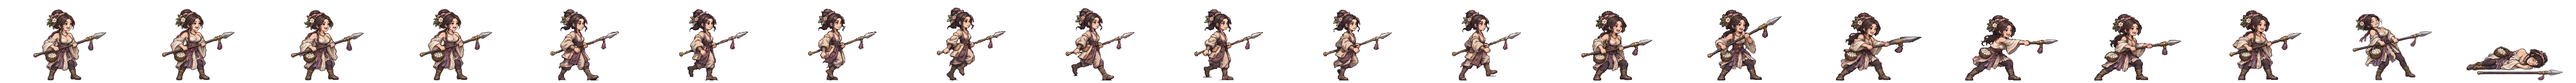
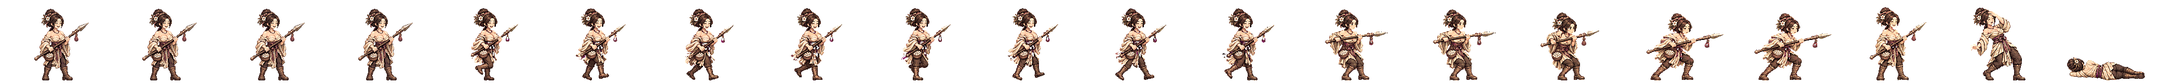
조문 오디 새 전투 띠를 게임에 넣음(서기·걷기·창 찌르기 여덟 칸·쓰러짐·꽃 고쳐 꽂기)
띠 검사 합격 · 찌르기는 가슴이 공 모양으로 부푼 첫 판을 한 번 다시 그림 · 쓰러짐은 7% 크게 그린 첫 판을 한 번 다시 그림 · 공격 끝 칸 키 141 ↔ 서기 138

Claude-Session: https://claude.ai/code/session_01TRiuN7s6aDfSnaHxrkctmU

Changed region(s): [[0.0, 0.0938, 1.0, 0.9688]]

diff --git a/src/realm/data/spritePx.ts b/src/realm/data/spritePx.ts
@@ -1,3 +1,3 @@
 /** public/realm/anim-px/manifest.json 의 사본 — tools/sprite-normalize.mjs 가 만든다 (손으로 고치지 말 것). 칸 [가로, 세로] · feet = 발 줄(칸 위에서 y) · bodyPx = 서 있는 몸 키 */
 import { expandManifest } from './sprite-manifest.ts'
-export const SPRITE_PX: Readonly<Record<string, { readonly cell: readonly [number, number]; readonly feet: number; readonly bodyPx: number; readonly kind: 'general' | 'soldier' | 'folk' | 'crowd'; readonly cells: number }>> = expandManifest<{ readonly cell: readonly [number, number]; readonly feet: number; readonly bodyPx: number; readonly kind: 'general' | 'soldier' | 'folk' | 'crowd'; readonly cells: number }>([{"cell":[166,128],"feet":126,"bodyPx":124,"kind":"soldier","cells":20},{"cell":[116,128],"feet":126,"bodyPx":117,"kind":"soldier","cells":20},{"cell":[127,128],"feet":126,"bodyPx":116,"kind":"soldier","cells":20},{"cell":[269,128],"feet":126,"bodyPx":126,"kind":"soldier","cells":20},{"cell":[503,128],"feet":126,"bodyPx":127,"kind":"soldier","cells":20},{"cell":[614,128],"feet":126,"bodyPx":126,"kind":"soldier","cells":20},{"cell":[200,160],"feet":156,"bodyPx":138,"kind":"general","cells":20},{"cell":[208,160],"feet":155,"bodyPx":138,"kind":"general","cells":20},{"cell":[208,160],"feet":154,"bodyPx":138,"kind":"general","cells":20},{"cell":[304,160],"feet":155,"bodyPx":135,"kind":"general","cells":20},{"cell":[224,160],"feet":156,"bodyPx":139,"kind":"general","cells":20},{"cell":[184,160],"feet":156,"bodyPx":138,"kind":"general","cells":20},{"cell":[208,160],"feet":154,"bodyPx":136,"kind":"general","cells":20},{"cell":[240,160],"feet":156,"bodyPx":138,"kind":"general","cells":20},{"cell":[232,160],"feet":156,"bodyPx":138,"kind":"general","cells":20},{"cell":[208,160],"feet":156,"bodyPx":138,"kind":"general","cells":20},{"cell":[168,160],"feet":156,"bodyPx":138,"kind":"general","cells":20},{"cell":[192,160],"feet":156,"bodyPx":138,"kind":"general","cells":20},{"cell":[168,160],"feet":156,"bodyPx":124,"kind":"general","cells":20},{"cell":[216,160],"feet":156,"bodyPx":130,"kind":"general","cells":20},{"cell":[200,160],"feet":156,"bodyPx":116,"kind":"general","cells":20},{"cell":[200,160],"feet":156,"bodyPx":135,"kind":"general","cells":20},{"cell":[280,160],"feet":156,"bodyPx":138,"kind":"general","cells":20},{"cell":[232,160],"feet":155,"bodyPx":138,"kind":"general","cells":20},{"cell":[232,160],"feet":156,"bodyPx":134,"kind":"general","cells":20},{"cell":[144,160],"feet":156,"bodyPx":70,"kind":"general","cells":20},{"cell":[208,160],"feet":156,"bodyPx":70,"kind":"general","cells":20},{"cell":[192,160],"feet":156,"bodyPx":70,"kind":"general","cells":20},{"cell":[240,160],"feet":155,"bodyPx":138,"kind":"general","cells":20},{"cell":[160,160],"feet":156,"bodyPx":135,"kind":"general","cells":20},{"cell":[192,160],"feet":156,"bodyPx":128,"kind":"general","cells":20},{"cell":[224,160],"feet":155,"bodyPx":138,"kind":"general","cells":20},{"cell":[232,160],"feet":156,"bodyPx":139,"kind":"general","cells":20},{"cell":[216,160],"feet":156,"bodyPx":138,"kind":"general","cells":20},{"cell":[208,160],"feet":156,"bodyPx":134,"kind":"general","cells":20},{"cell":[176,160],"feet":156,"bodyPx":130,"kind":"general","cells":20},{"cell":[248,160],"feet":156,"bodyPx":138,"kind":"general","cells":20},{"cell":[248,160],"feet":155,"bodyPx":138,"kind":"general","cells":20},{"cell":[192,160],"feet":155,"bodyPx":138,"kind":"general","cells":20},{"cell":[192,160],"feet":156,"bodyPx":124,"kind":"general","cells":20},{"cell":[208,160],"feet":154,"bodyPx":131,"kind":"general","cells":20},{"cell":[256,160],"feet":156,"bodyPx":138,"kind":"general","cells":20},{"cell":[232,160],"feet":156,"bodyPx":73,"kind":"general","cells":20},{"cell":[256,160],"feet":155,"bodyPx":138,"kind":"general","cells":20},{"cell":[264,160],"feet":156,"bodyPx":138,"kind":"general","cells":20},{"cell":[224,160],"feet":156,"bodyPx":138,"kind":"general","cells":20},{"cell":[224,160],"feet":156,"bodyPx":128,"kind":"general","cells":20},{"cell":[176,160],"feet":156,"bodyPx":129,"kind":"general","cells":20},{"cell":[208,160],"feet":154,"bodyPx":139,"kind":"general","cells":20},{"cell":[208,160],"feet":156,"bodyPx":132,"kind":"general","cells":20},{"cell":[216,160],"feet":155,"bodyPx":138,"kind":"general","cells":20},{"cell":[184,160],"feet":156,"bodyPx":122,"kind":"general","cells":20},{"cell":[176,160],"feet":156,"bodyPx":138,"kind":"general","cells":20},{"cell":[280,160],"feet":155,"bodyPx":133,"kind":"general","cells":20},{"cell":[176,160],"feet":156,"bodyPx":70,"kind":"general","cells":20},{"cell":[186,128],"feet":126,"bodyPx":127,"kind":"soldier","cells":20},{"cell":[298,128],"feet":126,"bodyPx":126,"kind":"soldier","cells":20},{"cell":[82,128],"feet":126,"bodyPx":114,"kind":"folk","cells":8},{"cell":[134,128],"feet":126,"bodyPx":119,"kind":"soldier","cells":20},{"cell":[380,128],"feet":126,"bodyPx":124,"kind":"soldier","cells":20},{"cell":[114,128],"feet":126,"bodyPx":115,"kind":"soldier","cells":20},{"cell":[122,128],"feet":126,"bodyPx":114,"kind":"soldier","cells":20},{"cell":[254,128],"feet":126,"bodyPx":128,"kind":"soldier","cells":20},{"cell":[438,128],"feet":126,"bodyPx":126,"kind":"soldier","cells":20},{"cell":[88,128],"feet":126,"bodyPx":113,"kind":"folk","cells":8},{"cell":[100,128],"feet":126,"bodyPx":115,"kind":"folk","cells":8},{"cell":[108,128],"feet":126,"bodyPx":115,"kind":"folk","cells":8},{"cell":[63,128],"feet":126,"bodyPx":113,"kind":"folk","cells":8},{"cell":[69,96],"feet":96,"bodyPx":96,"kind":"crowd","cells":1},{"cell":[54,96],"feet":96,"bodyPx":96,"kind":"crowd","cells":1},{"cell":[47,96],"feet":96,"bodyPx":96,"kind":"crowd","cells":1},{"cell":[49,96],"feet":96,"bodyPx":96,"kind":"crowd","cells":1},{"cell":[57,96],"feet":96,"bodyPx":96,"kind":"crowd","cells":1},{"cell":[55,96],"feet":96,"bodyPx":96,"kind":"crowd","cells":1},{"cell":[45,96],"feet":96,"bodyPx":96,"kind":"crowd","cells":1},{"cell":[53,96],"feet":96,"bodyPx":96,"kind":"crowd","cells":1},{"cell":[64,96],"feet":96,"bodyPx":96,"kind":"crowd","cells":1},{"cell":[184,160],"feet":156,"bodyPx":124,"kind":"general","cells":20},{"cell":[184,160],"feet":156,"bodyPx":134,"kind":"general","cells":20},{"cell":[224,160],"feet":156,"bodyPx":133,"kind":"general","cells":20},{"cell":[192,160],"feet":156,"bodyPx":135,"kind":"general","cells":20},{"cell":[184,160],"feet":156,"bodyPx":137,"kind":"general","cells":20},{"cell":[216,160],"feet":156,"bodyPx":134,"kind":"general","cells":20},{"cell":[216,160],"feet":156,"bodyPx":132,"kind":"general","cells":20},{"cell":[288,160],"feet":156,"bodyPx":138,"kind":"general","cells":20},{"cell":[192,160],"feet":156,"bodyPx":118,"kind":"general","cells":20},{"cell":[192,160],"feet":156,"bodyPx":134,"kind":"general","cells":20},{"cell":[192,160],"feet":157,"bodyPx":139,"kind":"general","cells":20},{"cell":[184,160],"feet":156,"bodyPx":128,"kind":"general","cells":20},{"cell":[240,160],"feet":156,"bodyPx":128,"kind":"general","cells":20},{"cell":[184,160],"feet":156,"bodyPx":132,"kind":"general","cells":20},{"cell":[208,160],"feet":156,"bodyPx":123,"kind":"general","cells":20},{"cell":[208,160],"feet":154,"bodyPx":137,"kind":"general","cells":20},{"cell":[176,160],"feet":156,"bodyPx":116,"kind":"general","cells":20},{"cell":[272,160],"feet":156,"bodyPx":138,"kind":"general","cells":20},{"cell":[176,160],"feet":156,"bodyPx":122,"kind":"general","cells":20},{"cell":[232,160],"feet":156,"bodyPx":127,"kind":"general","cells":20},{"cell":[176,160],"feet":156,"bodyPx":137,"kind":"general","cells":20},{"cell":[184,160],"feet":156,"bodyPx":133,"kind":"general","cells":20}],[["axe",0],["bandit-chief",1],["bandit-club",2],["boat",3],["bow",4],["crossbow",5],["gen-adogan",6],["gen-alpyeong",7],["gen-ara",8],["gen-areum",8],["gen-aryeong",9],["gen-bakdal",6],["gen-baram",10],["gen-bdanbi",11],["gen-beom",12],["gen-beombal",11],["gen-beomi",13],["gen-bira",14],["gen-biryu",15],["gen-budeul",16],["gen-byeol",17],["gen-daemusin",18],["gen-daeso",19],["gen-dallae2",11],["gen-dalli",11],["gen-damul",20],["gen-danbi",15],["gen-dangung",17],["gen-darae",21],["gen-dokmudeom",7],["gen-duman",22],["gen-eomni",23],["gen-eureum",24],["gen-g-bow",25],["gen-g-spear",26],["gen-g-sword",27],["gen-gaennae",6],["gen-gamsil",28],["gen-gaon",29],["gen-geota",15],["gen-geumbawi",11],["gen-geumha",30],["gen-goeun",15],["gen-gom",31],["gen-gomok",15],["gen-gureum",28],["gen-guryema",17],["gen-gwaeyu",14],["gen-haebi",8],["gen-haedal",6],["gen-haesol",32],["gen-halla",7],["gen-heo",8],["gen-hneoul",11],["gen-hogong",33],["gen-hojin",15],["gen-horselord",34],["gen-hwalmi",35],["gen-hyeokgeose",17],["gen-hyeopbo",6],["gen-irang",15],["gen-jibaekho",36],["gen-jinha",37],["gen-jita",38],["gen-jumong",39],["gen-keundol",7],["gen-maehwa",40],["gen-maenun",17],["gen-malgalgi",41],["gen-mari",13],["gen-maro",36],["gen-maryeo",15],["gen-mdallae",32],["gen-mir",6],["gen-mount",42],["gen-mulbeom",43],["gen-mulsae",33],["gen-musoe",33],["gen-noeul",8],["gen-nuri",44],["gen-ocheongan",45],["gen-odi",37],["gen-odogan",6],["gen-ogan",17],["gen-oi",46],["gen-olddaeso",24],["gen-onjo",47],["gen-pidogan",15],["gen-sagong",48],["gen-sdallae",6],["gen-sincheongan",33],["gen-singwigan",33],["gen-sinneoul",8],["gen-sobeol",23],["gen-soebi",6],["gen-soebo",49],["gen-soenun",36],["gen-sogeumbi",50],["gen-songbi",45],["gen-songyang",51],["gen-sori",52],["gen-soseono",53],["gen-suro",17],["gen-tahae",6],["gen-tneoul",8],["gen-w-bow",25],["gen-w-spear",54],["gen-waechief",15],["gen-wan",33],["gen-yeodogan",15],["gen-yucheongan",15],["gen-yusugan",36],["horse",55],["marine",56],["migrant",57],["militia",58],["pike",59],["pirate-captain",60],["pirate-sword",61],["shield",62],["spear",63],["villager-builder",64],["villager-farmer",65],["villager-porter",66],["villager-woman",67],["crowd-b1",68],["crowd-b2",69],["crowd-b3",70],["crowd-b4",71],["crowd-b5",72],["crowd-b6",73],["crowd-f1",68],["crowd-f2",73],["crowd-f3",74],["crowd-f4",75],["crowd-f5",68],["crowd-f6",76],["gen-dalbit",15],["gen-base-g-07-drunk-warrior",17],["gen-base-g-40-anya-adan",15],["gen-base-w-13-young-archer",8],["gen-base-g-03-sea-trader",13],["gen-base-w-10-pirate-captain",48],["gen-base-w-64-miri-dallae",48],["gen-base-g-41-goja-bau",13],["gen-base-g-42-dokro-garam",44],["gen-base-g-09-farmer-conscript",33],["gen-base-w-02-goguryeo-lady",33],["gen-base-w-17-mahan-pearl-diver",8],["gen-base-g-17-saro-isageum",49],["gen-base-g-18-daegaya-king",77],["gen-base-g-35-dabeol-dalgu",15],["gen-base-g-19-sabeol-veteran",33],["gen-base-w-23-usisan-whale-queen",8],["gen-base-g-36-gammun-gamdol",45],["gen-base-g-20-samul-sea-lord",41],["gen-base-g-37-eumjeup-jeup",11],["gen-base-g-38-chopal-palmae",17],["gen-base-w-75-daegaya-soemoe",17],["gen-base-g-45-dabeol-deulgae",11],["gen-base-g-04-jinhan-giant",15],["gen-base-g-08-veteran",15],["gen-base-w-18-jinhan-salt-widow",15],["gen-base-w-12-court-dancer",78],["gen-base-w-83-gyeonji-beodeul",79],["gen-base-w-05-baekje-queen",80],["gen-base-w-21-baekje-court-dancer",11],["gen-base-g-01-master-smith",81],["gen-base-g-93-jomun-solgae",35],["gen-base-g-57-bihwa-neup",13],["gen-base-w-72-eumjeup-beol",8],["gen-base-w-102-garak-dana",33],["gen-base-g-68-baekje-onnuri",15],["gen-base-w-27-mokji-jinha",6],["gen-base-g-22-ungcheon-gomnae",6],["gen-base-g-23-sangdang-soedal",15],["gen-base-g-24-wansan-onsan",6],["gen-base-g-25-balla-keunmoe",33],["gen-base-g-61-heomcheuk-bawi",33],["gen-base-g-88-wander-soeul",45],["gen-base-w-14-feast-spy",6],["gen-base-g-12-silla-youth",82],["gen-base-w-08-mahan-warrior",8],["gen-base-g-62-beonye-hanul",13],["gen-base-g-63-heomcheuk-beogeum",15],["gen-base-g-84-wander-seoneul",15],["gen-base-w-50-siljik-mulga",33],["gen-base-g-46-uga-nureongso",33],["gen-base-w-80-usan-gangchi",13],["gen-base-g-47-guga-sanyanggae",33],["gen-base-w-76-gampyeong-baetsagong",36],["gen-base-g-05-mahan-chieftain",83],["gen-base-g-58-usan-uhae",15],["gen-base-g-27-maek-maekdol",15],["gen-base-w-53-hwanna-gabi",16],["gen-base-w-29-golpo-janmul",36],["gen-base-g-53-baekje-haeru",6],["gen-base-w-71-yeonna-neoul",13],["gen-base-w-79-yangmaek-solmae",33],["gen-base-w-34-chopal-deulme",44],["gen-base-g-44-maga-malgup",84],["gen-base-w-31-dabeol-dalbit",48],["gen-base-g-51-biryuna-mulgyeol",45],["gen-base-g-48-gwanna-musoe",15],["gen-base-g-32-uga-sodu",14],["gen-base-g-49-goguryeo-sona",85],["gen-base-g-30-gwanna-soemoe",45],["gen-base-g-52-tamna-oreum",11],["gen-base-g-29-yeonna-myeongsol",39],["gen-base-w-56-dongokjeo-sogeum",86],["gen-base-g-54-mokji-mahan",14],["gen-base-g-33-jeoga-metdol",17],["gen-base-w-36-baekje-maena",17],["gen-base-w-38-sangdang-bulmae",6],["gen-base-w-39-gosaburi-galmae",87],["gen-base-w-40-mujin-munui",49],["gen-base-w-41-hwanna-beodeul",88],["gen-base-w-43-uga-nuri",41],["gen-base-w-45-tamna-oreumbi",11],["gen-base-g-60-golbeol-golgae",11],["gen-base-g-61-apdok-ap",33],["gen-base-g-62-gammun-gamnamu",6],["gen-base-g-63-chopal-yeoul",36],["gen-base-g-64-michuhol-sogeumkkun",13],["gen-base-g-65-sangdang-soemangchi",45],["gen-base-g-66-geonma-malbalgup",89],["gen-base-g-67-gosaburi-buri",90],["gen-base-g-68-mujin-bitgoeul",11],["gen-base-g-69-goryong-yong",45],["gen-base-g-70-siljik-pado",13],["gen-base-w-81-byeokjin-byeolbit",14],["gen-base-w-46-geonma-maru",36],["gen-base-w-48-mujin-mudeung",13],["gen-base-g-26-gampyeong-gaetbeol",14],["gen-base-g-60-eupcha-hangyeol",91],["gen-base-g-15-shaman-man",33],["gen-base-g-85-wander-ure",36],["gen-base-g-43-hwanna-amnok",15],["gen-base-g-50-bullae-gwaha",80],["gen-base-g-55-saro-bakdal",15],["gen-base-g-56-haseulla-gwahama",6],["gen-base-w-06-buyeo-huntress",92],["gen-base-w-22-dongye-tiger-huntress",8],["gen-base-w-25-bihwa-priestess",33],["gen-base-w-24-apdok-queen",11],["gen-base-w-61-iseo-sinae",15],["gen-base-w-26-iseo-tomboy-general",8],["gen-base-g-59-yangmaek-maekson",93],["gen-aw1-haebi",45],["gen-aw1-soseono",94],["gen-aw1-gamsil",11],["gen-aw1-mir",52],["gen-aw1-dangung",6],["gen-aw1-ara",45],["gen-aw1-jumong",95],["gen-aw1-onjo",96],["gen-aw1-base-w-83-gyeonji-beodeul",17],["gen-aw1-heo",44],["gen-aw1-base-g-38-chopal-palmae",6],["gen-aw1-base-w-25-bihwa-priestess",78],["gen-aw1-sori",16],["gen-aw1-gomok",6],["gen-aw1-irang",17],["gen-aw1-budeul",16],["gen-aw1-gom",13],["gen-aw1-sdallae",6],["gen-aw1-base-w-13-young-archer",6],["gen-aw1-base-w-36-baekje-maena",97],["gen-aw1-base-g-09-farmer-conscript",44],["gen-aw1-base-w-02-goguryeo-lady",98],["gen-aw1-haedal",11],["gen-aw1-hogong",6],["gen-aw1-maehwa",52],["gen-aw1-base-w-06-buyeo-huntress",14],["gen-aw1-base-w-08-mahan-warrior",45],["gen-aw1-base-w-29-golpo-janmul",45],["gen-aw1-base-w-31-dabeol-dalbit",17],["gen-aw1-base-w-38-sangdang-bulmae",16],["gen-aw1-bira",33],["gen-aw1-base-w-53-hwanna-gabi",16],["gen-aw1-base-w-56-dongokjeo-sogeum",52],["gen-aw1-base-w-72-eumjeup-beol",17],["gen-aw1-bdanbi",16],["gen-aw1-beom",11],["gen-aw1-beombal",11],["gen-aw1-byeol",17],["gen-aw1-dalli",52],["gen-aw1-malgalgi",36],["gen-aw1-sincheongan",33]])
+export const SPRITE_PX: Readonly<Record<string, { readonly cell: readonly [number, number]; readonly feet: number; readonly bodyPx: number; readonly kind: 'general' | 'soldier' | 'folk' | 'crowd'; readonly cells: number }>> = expandManifest<{ readonly cell: readonly [number, number]; readonly feet: number; readonly bodyPx: number; readonly kind: 'general' | 'soldier' | 'folk' | 'crowd'; readonly cells: number }>([{"cell":[166,128],"feet":126,"bodyPx":124,"kind":"soldier","cells":20},{"cell":[116,128],"feet":126,"bodyPx":117,"kind":"soldier","cells":20},{"cell":[127,128],"feet":126,"bodyPx":116,"kind":"soldier","cells":20},{"cell":[269,128],"feet":126,"bodyPx":126,"kind":"soldier","cells":20},{"cell":[503,128],"feet":126,"bodyPx":127,"kind":"soldier","cells":20},{"cell":[614,128],"feet":126,"bodyPx":126,"kind":"soldier","cells":20},{"cell":[200,160],"feet":156,"bodyPx":138,"kind":"general","cells":20},{"cell":[208,160],"feet":155,"bodyPx":138,"kind":"general","cells":20},{"cell":[208,160],"feet":154,"bodyPx":138,"kind":"general","cells":20},{"cell":[304,160],"feet":155,"bodyPx":135,"kind":"general","cells":20},{"cell":[224,160],"feet":156,"bodyPx":139,"kind":"general","cells":20},{"cell":[184,160],"feet":156,"bodyPx":138,"kind":"general","cells":20},{"cell":[208,160],"feet":154,"bodyPx":136,"kind":"general","cells":20},{"cell":[240,160],"feet":156,"bodyPx":138,"kind":"general","cells":20},{"cell":[232,160],"feet":156,"bodyPx":138,"kind":"general","cells":20},{"cell":[208,160],"feet":156,"bodyPx":138,"kind":"general","cells":20},{"cell":[168,160],"feet":156,"bodyPx":138,"kind":"general","cells":20},{"cell":[192,160],"feet":156,"bodyPx":138,"kind":"general","cells":20},{"cell":[168,160],"feet":156,"bodyPx":124,"kind":"general","cells":20},{"cell":[216,160],"feet":156,"bodyPx":130,"kind":"general","cells":20},{"cell":[200,160],"feet":156,"bodyPx":116,"kind":"general","cells":20},{"cell":[200,160],"feet":156,"bodyPx":135,"kind":"general","cells":20},{"cell":[280,160],"feet":156,"bodyPx":138,"kind":"general","cells":20},{"cell":[232,160],"feet":155,"bodyPx":138,"kind":"general","cells":20},{"cell":[232,160],"feet":156,"bodyPx":134,"kind":"general","cells":20},{"cell":[144,160],"feet":156,"bodyPx":70,"kind":"general","cells":20},{"cell":[208,160],"feet":156,"bodyPx":70,"kind":"general","cells":20},{"cell":[192,160],"feet":156,"bodyPx":70,"kind":"general","cells":20},{"cell":[240,160],"feet":155,"bodyPx":138,"kind":"general","cells":20},{"cell":[160,160],"feet":156,"bodyPx":135,"kind":"general","cells":20},{"cell":[192,160],"feet":156,"bodyPx":128,"kind":"general","cells":20},{"cell":[224,160],"feet":155,"bodyPx":138,"kind":"general","cells":20},{"cell":[232,160],"feet":156,"bodyPx":139,"kind":"general","cells":20},{"cell":[216,160],"feet":156,"bodyPx":138,"kind":"general","cells":20},{"cell":[208,160],"feet":156,"bodyPx":134,"kind":"general","cells":20},{"cell":[176,160],"feet":156,"bodyPx":130,"kind":"general","cells":20},{"cell":[248,160],"feet":156,"bodyPx":138,"kind":"general","cells":20},{"cell":[248,160],"feet":155,"bodyPx":138,"kind":"general","cells":20},{"cell":[192,160],"feet":155,"bodyPx":138,"kind":"general","cells":20},{"cell":[192,160],"feet":156,"bodyPx":124,"kind":"general","cells":20},{"cell":[208,160],"feet":154,"bodyPx":131,"kind":"general","cells":20},{"cell":[256,160],"feet":156,"bodyPx":138,"kind":"general","cells":20},{"cell":[232,160],"feet":156,"bodyPx":73,"kind":"general","cells":20},{"cell":[256,160],"feet":155,"bodyPx":138,"kind":"general","cells":20},{"cell":[264,160],"feet":156,"bodyPx":138,"kind":"general","cells":20},{"cell":[224,160],"feet":156,"bodyPx":138,"kind":"general","cells":20},{"cell":[224,160],"feet":156,"bodyPx":128,"kind":"general","cells":20},{"cell":[176,160],"feet":156,"bodyPx":129,"kind":"general","cells":20},{"cell":[208,160],"feet":154,"bodyPx":139,"kind":"general","cells":20},{"cell":[208,160],"feet":156,"bodyPx":132,"kind":"general","cells":20},{"cell":[216,160],"feet":155,"bodyPx":138,"kind":"general","cells":20},{"cell":[184,160],"feet":156,"bodyPx":122,"kind":"general","cells":20},{"cell":[176,160],"feet":156,"bodyPx":138,"kind":"general","cells":20},{"cell":[280,160],"feet":155,"bodyPx":133,"kind":"general","cells":20},{"cell":[176,160],"feet":156,"bodyPx":70,"kind":"general","cells":20},{"cell":[186,128],"feet":126,"bodyPx":127,"kind":"soldier","cells":20},{"cell":[298,128],"feet":126,"bodyPx":126,"kind":"soldier","cells":20},{"cell":[82,128],"feet":126,"bodyPx":114,"kind":"folk","cells":8},{"cell":[134,128],"feet":126,"bodyPx":119,"kind":"soldier","cells":20},{"cell":[380,128],"feet":126,"bodyPx":124,"kind":"soldier","cells":20},{"cell":[114,128],"feet":126,"bodyPx":115,"kind":"soldier","cells":20},{"cell":[122,128],"feet":126,"bodyPx":114,"kind":"soldier","cells":20},{"cell":[254,128],"feet":126,"bodyPx":128,"kind":"soldier","cells":20},{"cell":[438,128],"feet":126,"bodyPx":126,"kind":"soldier","cells":20},{"cell":[88,128],"feet":126,"bodyPx":113,"kind":"folk","cells":8},{"cell":[100,128],"feet":126,"bodyPx":115,"kind":"folk","cells":8},{"cell":[108,128],"feet":126,"bodyPx":115,"kind":"folk","cells":8},{"cell":[63,128],"feet":126,"bodyPx":113,"kind":"folk","cells":8},{"cell":[69,96],"feet":96,"bodyPx":96,"kind":"crowd","cells":1},{"cell":[54,96],"feet":96,"bodyPx":96,"kind":"crowd","cells":1},{"cell":[47,96],"feet":96,"bodyPx":96,"kind":"crowd","cells":1},{"cell":[49,96],"feet":96,"bodyPx":96,"kind":"crowd","cells":1},{"cell":[57,96],"feet":96,"bodyPx":96,"kind":"crowd","cells":1},{"cell":[55,96],"feet":96,"bodyPx":96,"kind":"crowd","cells":1},{"cell":[45,96],"feet":96,"bodyPx":96,"kind":"crowd","cells":1},{"cell":[53,96],"feet":96,"bodyPx":96,"kind":"crowd","cells":1},{"cell":[64,96],"feet":96,"bodyPx":96,"kind":"crowd","cells":1},{"cell":[184,160],"feet":156,"bodyPx":124,"kind":"general","cells":20},{"cell":[184,160],"feet":156,"bodyPx":134,"kind":"general","cells":20},{"cell":[224,160],"feet":156,"bodyPx":133,"kind":"general","cells":20},{"cell":[192,160],"feet":156,"bodyPx":135,"kind":"general","cells":20},{"cell":[184,160],"feet":156,"bodyPx":137,"kind":"general","cells":20},{"cell":[216,160],"feet":156,"bodyPx":134,"kind":"general","cells":20},{"cell":[216,160],"feet":156,"bodyPx":132,"kind":"general","cells":20},{"cell":[288,160],"feet":156,"bodyPx":138,"kind":"general","cells":20},{"cell":[192,160],"feet":156,"bodyPx":118,"kind":"general","cells":20},{"cell":[192,160],"feet":156,"bodyPx":134,"kind":"general","cells":20},{"cell":[192,160],"feet":157,"bodyPx":139,"kind":"general","cells":20},{"cell":[184,160],"feet":156,"bodyPx":128,"kind":"general","cells":20},{"cell":[240,160],"feet":156,"bodyPx":128,"kind":"general","cells":20},{"cell":[184,160],"feet":156,"bodyPx":132,"kind":"general","cells":20},{"cell":[208,160],"feet":156,"bodyPx":123,"kind":"general","cells":20},{"cell":[208,160],"feet":154,"bodyPx":137,"kind":"general","cells":20},{"cell":[176,160],"feet":156,"bodyPx":116,"kind":"general","cells":20},{"cell":[272,160],"feet":156,"bodyPx":138,"kind":"general","cells":20},{"cell":[176,160],"feet":156,"bodyPx":122,"kind":"general","cells":20},{"cell":[232,160],"feet":156,"bodyPx":127,"kind":"general","cells":20},{"cell":[176,160],"feet":156,"bodyPx":137,"kind":"general","cells":20},{"cell":[184,160],"feet":156,"bodyPx":133,"kind":"general","cells":20}],[["axe",0],["bandit-chief",1],["bandit-club",2],["boat",3],["bow",4],["crossbow",5],["gen-adogan",6],["gen-alpyeong",7],["gen-ara",8],["gen-areum",8],["gen-aryeong",9],["gen-bakdal",6],["gen-baram",10],["gen-bdanbi",11],["gen-beom",12],["gen-beombal",11],["gen-beomi",13],["gen-bira",14],["gen-biryu",15],["gen-budeul",16],["gen-byeol",17],["gen-daemusin",18],["gen-daeso",19],["gen-dallae2",11],["gen-dalli",11],["gen-damul",20],["gen-danbi",15],["gen-dangung",17],["gen-darae",21],["gen-dokmudeom",7],["gen-duman",22],["gen-eomni",23],["gen-eureum",24],["gen-g-bow",25],["gen-g-spear",26],["gen-g-sword",27],["gen-gaennae",6],["gen-gamsil",28],["gen-gaon",29],["gen-geota",15],["gen-geumbawi",11],["gen-geumha",30],["gen-goeun",15],["gen-gom",31],["gen-gomok",15],["gen-gureum",28],["gen-guryema",17],["gen-gwaeyu",14],["gen-haebi",8],["gen-haedal",6],["gen-haesol",32],["gen-halla",7],["gen-heo",8],["gen-hneoul",11],["gen-hogong",33],["gen-hojin",15],["gen-horselord",34],["gen-hwalmi",35],["gen-hyeokgeose",17],["gen-hyeopbo",6],["gen-irang",15],["gen-jibaekho",36],["gen-jinha",37],["gen-jita",38],["gen-jumong",39],["gen-keundol",7],["gen-maehwa",40],["gen-maenun",17],["gen-malgalgi",41],["gen-mari",13],["gen-maro",36],["gen-maryeo",15],["gen-mdallae",32],["gen-mir",6],["gen-mount",42],["gen-mulbeom",43],["gen-mulsae",33],["gen-musoe",33],["gen-noeul",8],["gen-nuri",44],["gen-ocheongan",45],["gen-odi",8],["gen-odogan",6],["gen-ogan",17],["gen-oi",46],["gen-olddaeso",24],["gen-onjo",47],["gen-pidogan",15],["gen-sagong",48],["gen-sdallae",6],["gen-sincheongan",33],["gen-singwigan",33],["gen-sinneoul",8],["gen-sobeol",23],["gen-soebi",6],["gen-soebo",49],["gen-soenun",36],["gen-sogeumbi",50],["gen-songbi",45],["gen-songyang",51],["gen-sori",52],["gen-soseono",53],["gen-suro",17],["gen-tahae",6],["gen-tneoul",8],["gen-w-bow",25],["gen-w-spear",54],["gen-waechief",15],["gen-wan",33],["gen-yeodogan",15],["gen-yucheongan",15],["gen-yusugan",36],["horse",55],["marine",56],["migrant",57],["militia",58],["pike",59],["pirate-captain",60],["pirate-sword",61],["shield",62],["spear",63],["villager-builder",64],["villager-farmer",65],["villager-porter",66],["villager-woman",67],["crowd-b1",68],["crowd-b2",69],["crowd-b3",70],["crowd-b4",71],["crowd-b5",72],["crowd-b6",73],["crowd-f1",68],["crowd-f2",73],["crowd-f3",74],["crowd-f4",75],["crowd-f5",68],["crowd-f6",76],["gen-dalbit",15],["gen-base-g-07-drunk-warrior",17],["gen-base-g-40-anya-adan",15],["gen-base-w-13-young-archer",8],["gen-base-g-03-sea-trader",13],["gen-base-w-10-pirate-captain",48],["gen-base-w-64-miri-dallae",48],["gen-base-g-41-goja-bau",13],["gen-base-g-42-dokro-garam",44],["gen-base-g-09-farmer-conscript",33],["gen-base-w-02-goguryeo-lady",33],["gen-base-w-17-mahan-pearl-diver",8],["gen-base-g-17-saro-isageum",49],["gen-base-g-18-daegaya-king",77],["gen-base-g-35-dabeol-dalgu",15],["gen-base-g-19-sabeol-veteran",33],["gen-base-w-23-usisan-whale-queen",8],["gen-base-g-36-gammun-gamdol",45],["gen-base-g-20-samul-sea-lord",41],["gen-base-g-37-eumjeup-jeup",11],["gen-base-g-38-chopal-palmae",17],["gen-base-w-75-daegaya-soemoe",17],["gen-base-g-45-dabeol-deulgae",11],["gen-base-g-04-jinhan-giant",15],["gen-base-g-08-veteran",15],["gen-base-w-18-jinhan-salt-widow",15],["gen-base-w-12-court-dancer",78],["gen-base-w-83-gyeonji-beodeul",79],["gen-base-w-05-baekje-queen",80],["gen-base-w-21-baekje-court-dancer",11],["gen-base-g-01-master-smith",81],["gen-base-g-93-jomun-solgae",35],["gen-base-g-57-bihwa-neup",13],["gen-base-w-72-eumjeup-beol",8],["gen-base-w-102-garak-dana",33],["gen-base-g-68-baekje-onnuri",15],["gen-base-w-27-mokji-jinha",6],["gen-base-g-22-ungcheon-gomnae",6],["gen-base-g-23-sangdang-soedal",15],["gen-base-g-24-wansan-onsan",6],["gen-base-g-25-balla-keunmoe",33],["gen-base-g-61-heomcheuk-bawi",33],["gen-base-g-88-wander-soeul",45],["gen-base-w-14-feast-spy",6],["gen-base-g-12-silla-youth",82],["gen-base-w-08-mahan-warrior",8],["gen-base-g-62-beonye-hanul",13],["gen-base-g-63-heomcheuk-beogeum",15],["gen-base-g-84-wander-seoneul",15],["gen-base-w-50-siljik-mulga",33],["gen-base-g-46-uga-nureongso",33],["gen-base-w-80-usan-gangchi",13],["gen-base-g-47-guga-sanyanggae",33],["gen-base-w-76-gampyeong-baetsagong",36],["gen-base-g-05-mahan-chieftain",83],["gen-base-g-58-usan-uhae",15],["gen-base-g-27-maek-maekdol",15],["gen-base-w-53-hwanna-gabi",16],["gen-base-w-29-golpo-janmul",36],["gen-base-g-53-baekje-haeru",6],["gen-base-w-71-yeonna-neoul",13],["gen-base-w-79-yangmaek-solmae",33],["gen-base-w-34-chopal-deulme",44],["gen-base-g-44-maga-malgup",84],["gen-base-w-31-dabeol-dalbit",48],["gen-base-g-51-biryuna-mulgyeol",45],["gen-base-g-48-gwanna-musoe",15],["gen-base-g-32-uga-sodu",14],["gen-base-g-49-goguryeo-sona",85],["gen-base-g-30-gwanna-soemoe",45],["gen-base-g-52-tamna-oreum",11],["gen-base-g-29-yeonna-myeongsol",39],["gen-base-w-56-dongokjeo-sogeum",86],["gen-base-g-54-mokji-mahan",14],["gen-base-g-33-jeoga-metdol",17],["gen-base-w-36-baekje-maena",17],["gen-base-w-38-sangdang-bulmae",6],["gen-base-w-39-gosaburi-galmae",87],["gen-base-w-40-mujin-munui",49],["gen-base-w-41-hwanna-beodeul",88],["gen-base-w-43-uga-nuri",41],["gen-base-w-45-tamna-oreumbi",11],["gen-base-g-60-golbeol-golgae",11],["gen-base-g-61-apdok-ap",33],["gen-base-g-62-gammun-gamnamu",6],["gen-base-g-63-chopal-yeoul",36],["gen-base-g-64-michuhol-sogeumkkun",13],["gen-base-g-65-sangdang-soemangchi",45],["gen-base-g-66-geonma-malbalgup",89],["gen-base-g-67-gosaburi-buri",90],["gen-base-g-68-mujin-bitgoeul",11],["gen-base-g-69-goryong-yong",45],["gen-base-g-70-siljik-pado",13],["gen-base-w-81-byeokjin-byeolbit",14],["gen-base-w-46-geonma-maru",36],["gen-base-w-48-mujin-mudeung",13],["gen-base-g-26-gampyeong-gaetbeol",14],["gen-base-g-60-eupcha-hangyeol",91],["gen-base-g-15-shaman-man",33],["gen-base-g-85-wander-ure",36],["gen-base-g-43-hwanna-amnok",15],["gen-base-g-50-bullae-gwaha",80],["gen-base-g-55-saro-bakdal",15],["gen-base-g-56-haseulla-gwahama",6],["gen-base-w-06-buyeo-huntress",92],["gen-base-w-22-dongye-tiger-huntress",8],["gen-base-w-25-bihwa-priestess",33],["gen-base-w-24-apdok-queen",11],["gen-base-w-61-iseo-sinae",15],["gen-base-w-26-iseo-tomboy-general",8],["gen-base-g-59-yangmaek-maekson",93],["gen-aw1-haebi",45],["gen-aw1-soseono",94],["gen-aw1-gamsil",11],["gen-aw1-mir",52],["gen-aw1-dangung",6],["gen-aw1-ara",45],["gen-aw1-jumong",95],["gen-aw1-onjo",96],["gen-aw1-base-w-83-gyeonji-beodeul",17],["gen-aw1-heo",44],["gen-aw1-base-g-38-chopal-palmae",6],["gen-aw1-base-w-25-bihwa-priestess",78],["gen-aw1-sori",16],["gen-aw1-gomok",6],["gen-aw1-irang",17],["gen-aw1-budeul",16],["gen-aw1-gom",13],["gen-aw1-sdallae",6],["gen-aw1-base-w-13-young-archer",6],["gen-aw1-base-w-36-baekje-maena",97],["gen-aw1-base-g-09-farmer-conscript",44],["gen-aw1-base-w-02-goguryeo-lady",98],["gen-aw1-haedal",11],["gen-aw1-hogong",6],["gen-aw1-maehwa",52],["gen-aw1-base-w-06-buyeo-huntress",14],["gen-aw1-base-w-08-mahan-warrior",45],["gen-aw1-base-w-29-golpo-janmul",45],["gen-aw1-base-w-31-dabeol-dalbit",17],["gen-aw1-base-w-38-sangdang-bulmae",16],["gen-aw1-bira",33],["gen-aw1-base-w-53-hwanna-gabi",16],["gen-aw1-base-w-56-dongokjeo-sogeum",52],["gen-aw1-base-w-72-eumjeup-beol",17],["gen-aw1-bdanbi",16],["gen-aw1-beom",11],["gen-aw1-beombal",11],["gen-aw1-byeol",17],["gen-aw1-dalli",52],["gen-aw1-malgalgi",36],["gen-aw1-sincheongan",33]])

diff --git a/src/duel/view.ts b/src/duel/view.ts
@@ -100,7 +100,7 @@ const crowdFront = [1, 2, 3, 4, 5, 6].map((i) => img(`realm/duel/crowd/b${i}.png
 const crowdReady = (set: HTMLImageElement[]): boolean => set.every((im) => im.complete && im.naturalWidth > 0)
 const pxMode = cfg.px !== false && params.get('px') !== '0'
 /** 겨루기 전용 옛 띠(duel/sprites) 대신 열전과 같은 도트 띠(anim-px)를 쓰는 장수 — 두 판에서 같은 모습 · 서기 계획·쓰러지는 칸도 같다 (11-23 범 · 매화 · 달빛 · 11-24 해비 · 아룸) */
-const PX_DUEL: ReadonlySet<string> = new Set(['beom', 'maehwa', 'base-w-31-dabeol-dalbit', 'haebi', 'areum', 'base-w-13-young-archer', 'base-w-10-pirate-captain', 'base-w-17-mahan-pearl-diver', 'base-w-06-buyeo-huntress', 'base-w-64-miri-dallae', 'ara', 'base-w-22-dongye-tiger-huntress', 'noeul', 'sagong', 'sinneoul', 'heo', 'base-w-08-mahan-warrior', 'base-w-23-usisan-whale-queen', 'base-w-26-iseo-tomboy-general', 'base-w-72-eumjeup-beol', 'tneoul'])
+const PX_DUEL: ReadonlySet<string> = new Set(['beom', 'maehwa', 'base-w-31-dabeol-dalbit', 'haebi', 'areum', 'base-w-13-young-archer', 'base-w-10-pirate-captain', 'base-w-17-mahan-pearl-diver', 'base-w-06-buyeo-huntress', 'base-w-64-miri-dallae', 'ara', 'base-w-22-dongye-tiger-huntress', 'noeul', 'sagong', 'sinneoul', 'heo', 'base-w-08-mahan-warrior', 'base-w-23-usisan-whale-queen', 'base-w-26-iseo-tomboy-general', 'base-w-72-eumjeup-beol', 'tneoul', 'odi'])
 /** 띠 그림 — 기본은 anim-px(도트 규격) 먼저, 없으면 옛 띠로 (img 의 onerror 가 갈아 끼운다) */
 const strip = (s: string): HTMLImageElement => pxMode
   ? DUEL_ATLASES[s] !== undefined && !PX_DUEL.has(s) ? img(`realm/duel/sprites/gen-${s}.png`, `realm/anim-px/gen-${s}.png`)

diff --git a/src/tune/params.ts b/src/tune/params.ts
@@ -1440,6 +1440,7 @@ export const HAEBI_IDLE = {
     'base-w-26-iseo-tomboy-general': { cells: 34, base: [0, 1], hold: 2.4, fall: [18, 20, 21, 19], quirk: [22, 23, 24, 25], quirkTimes: [.3, .32, .4, .28], attack: { cells: [26, 27, 28, 29, 30, 31, 32, 33], times: [.09, .08, .11, .05, .15, .07, .08, .12], hit: 4 }, xGeom: { h: 224, root: 92, foot: 216 } },
     'base-w-72-eumjeup-beol': { cells: 34, base: [0, 1], hold: 2.4, fall: [18, 20, 21, 19], quirk: [22, 23, 24, 25], quirkTimes: [.3, .32, .4, .28], attack: { cells: [26, 27, 28, 29, 30, 31, 32, 33], times: [.09, .08, .11, .05, .15, .07, .08, .12], hit: 4 }, xGeom: { h: 224, root: 92, foot: 216 } },
     tneoul: { cells: 34, base: [0, 1], hold: 2.4, fall: [18, 20, 21, 19], quirk: [22, 23, 24, 25], quirkTimes: [.3, .32, .4, .28], attack: { cells: [26, 27, 28, 29, 30, 31, 32, 33], times: [.09, .08, .11, .05, .15, .07, .08, .12], hit: 4 }, xGeom: { h: 224, root: 92, foot: 216 } },
+    odi: { cells: 34, base: [0, 1], hold: 2.4, fall: [18, 20, 21, 19], quirk: [22, 23, 24, 25], quirkTimes: [.3, .32, .4, .28], attack: { cells: [26, 27, 28, 29, 30, 31, 32, 33], times: [.09, .08, .11, .05, .15, .07, .08, .12], hit: 4 }, xGeom: { h: 224, root: 92, foot: 216 } },
   },
 } as const
 export const HAEBI_ANIM = {

diff --git a/tools/sprite-kit/anim-harness.py b/tools/sprite-kit/anim-harness.py
@@ -52,6 +52,7 @@ HEROES = {
     'tomboy': dict(strip='gen-base-w-26-iseo-tomboy-general', atk='thrust', atk8=True, act=True, legacy=(('a', 2), ('a', 3), ('b', 3), ('b', 4))),   # 이서 말괄량이 장군(창 · 우람한 뼈대)
     'beol': dict(strip='gen-base-w-72-eumjeup-beol', atk='slash', atk8=True, act=True, legacy=(('a', 1), ('a', 3), ('b', 2), ('b', 4))),   # 음즙 벌(한 손 칼 · 우람한 뼈대) · 좁은 칸은 아라처럼 덜 뻗은 칸
     'tneoul': dict(strip='gen-tneoul', atk='thrust', atk8=True, act=True, legacy=(('a', 2), ('a', 3), ('b', 3), ('b', 4)), lock='face'),   # 탐라 너울(두 손 나무 노 · 가슴 L) · 머리 상자 묶기는 b-2 에서 얼굴 자리를 잘못 잡아 머리가 둘이 됐다(11-24) → 얼굴 안쪽만
+    'odi': dict(strip='gen-odi', atk='thrust', atk8=True, act=True, legacy=(('a', 2), ('a', 3), ('b', 3), ('b', 4))),   # 조문 오디(창 · 가슴 XL)
     'haebi': dict(strip='gen-haebi', atk='chop', atk8=True, act=True),   # act = 공격 여덟 칸이 넓은 동작 칸(240×224 · 뿌리 92 · 발 줄 216)
     'areum': dict(strip='gen-areum', atk='slam', atk8=True, act=True, lock='none'),   # 받은 그림 그대로(얼굴을 떠다 붙이지 않는다 — 11-24: 뭉친 얼굴이 여덟 칸에 퍼졌다) · 옛 lock='face': 메가 머리 뒤로 지나간다 — 머리 상자는 메를 자르고(「포스터」), 윗몸을 통째로 묶으면 떠다닌다(11-24 형) → 얼굴 안쪽만 묶는다
 }
